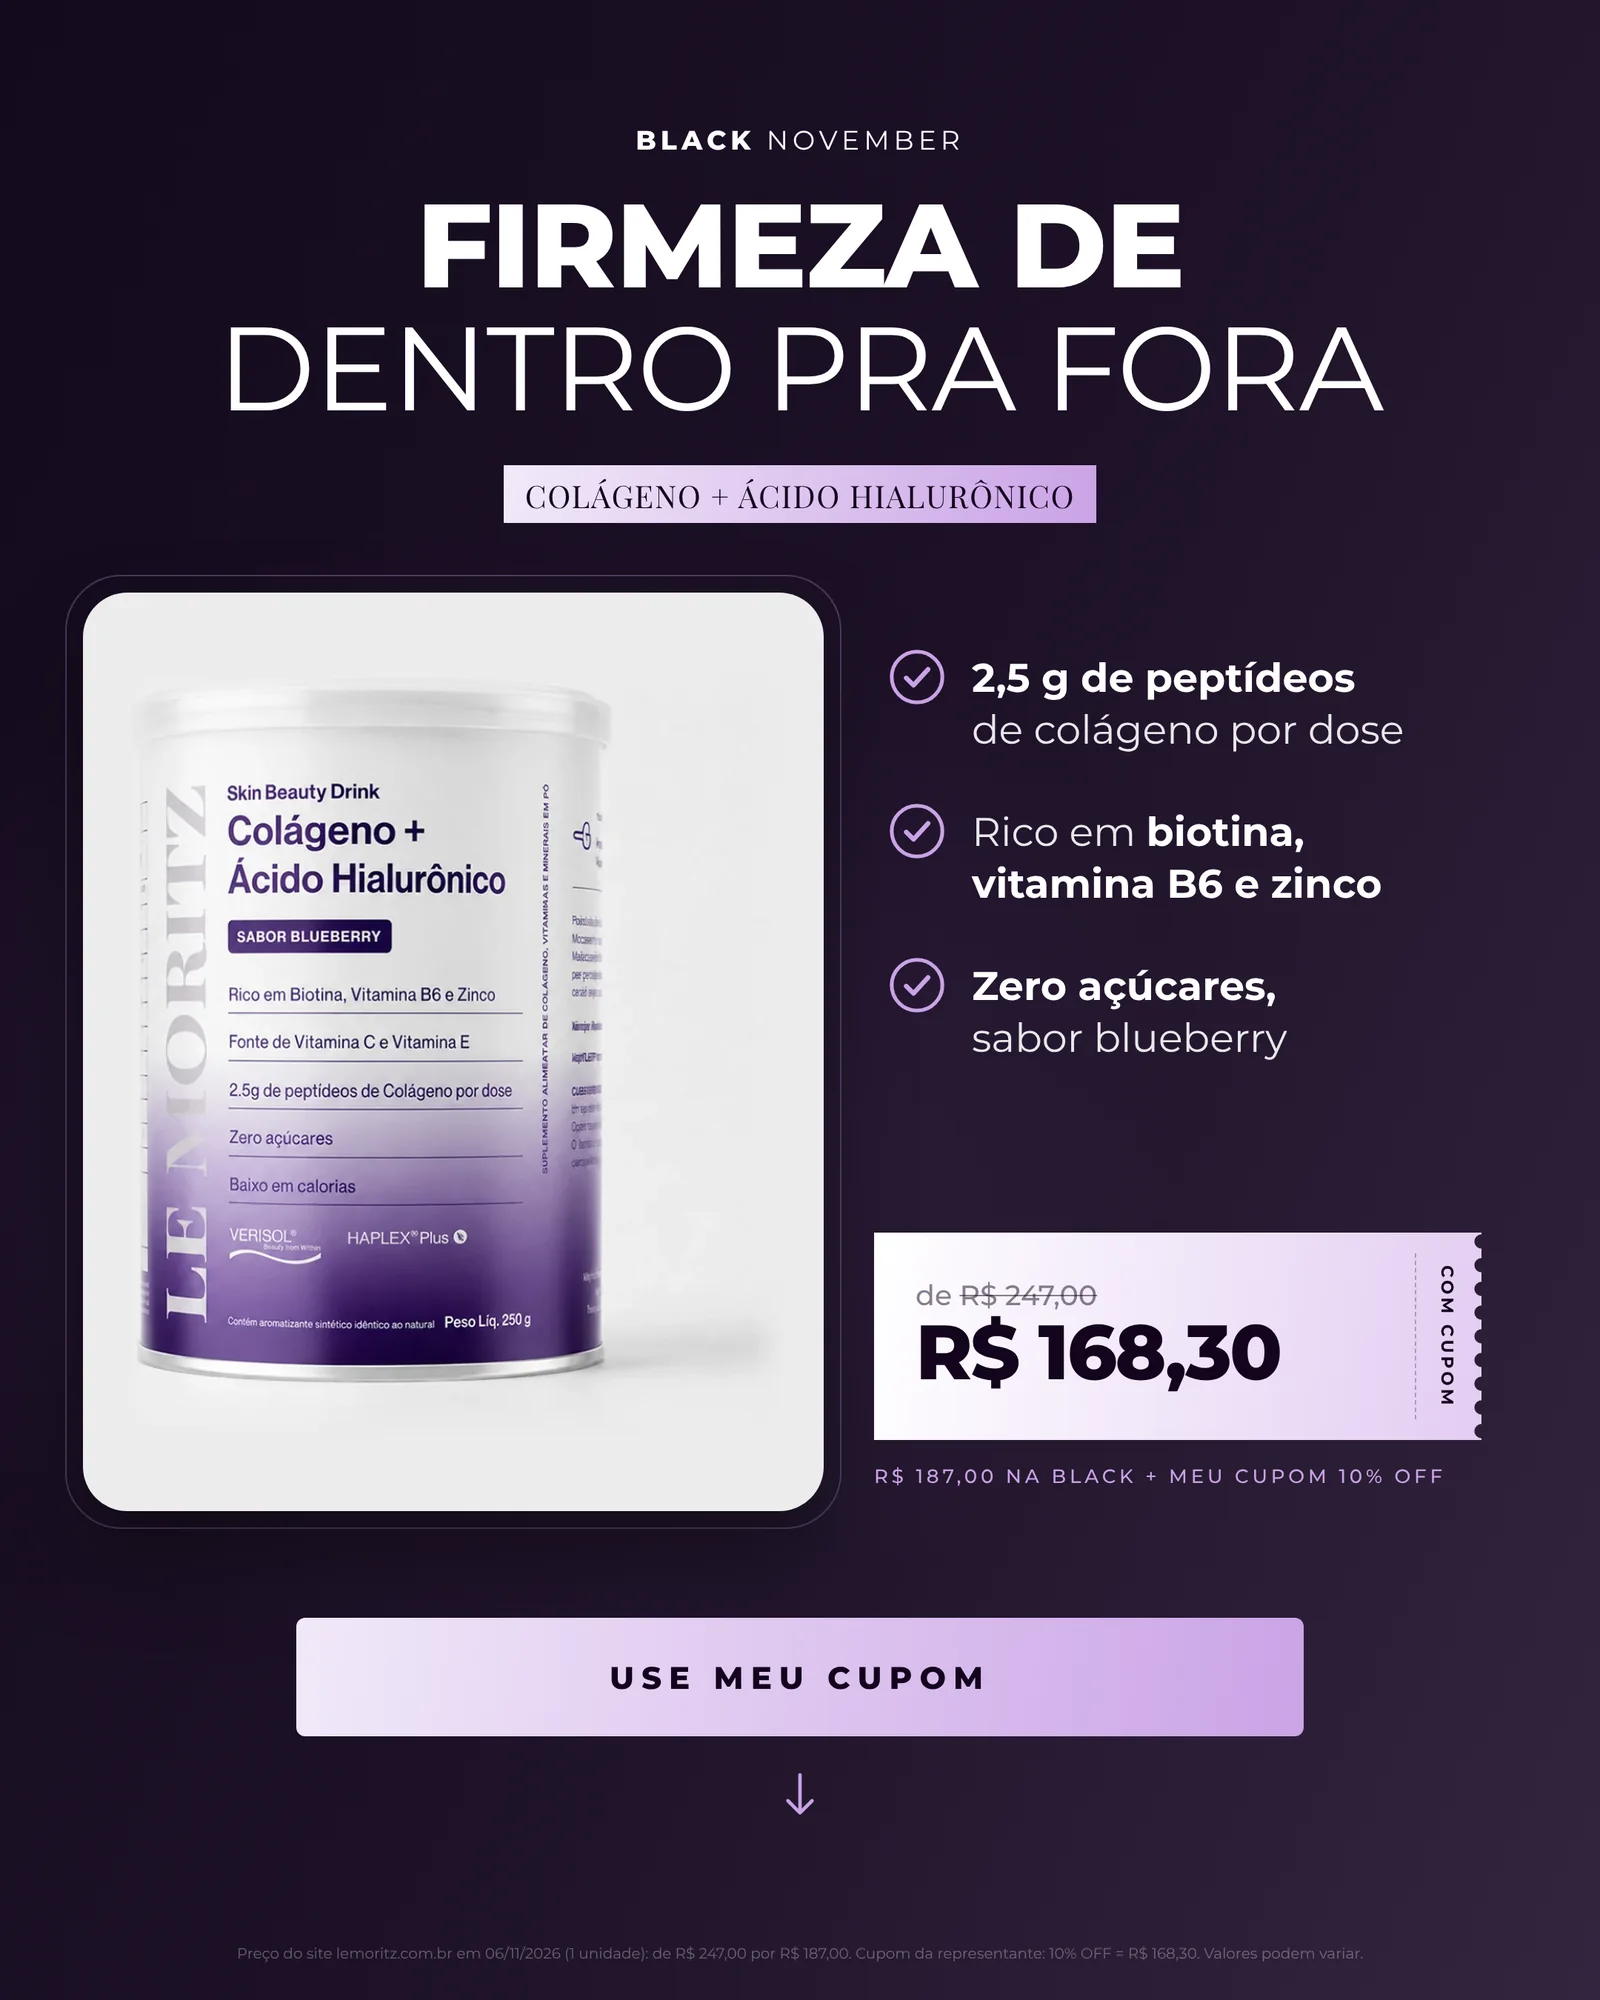
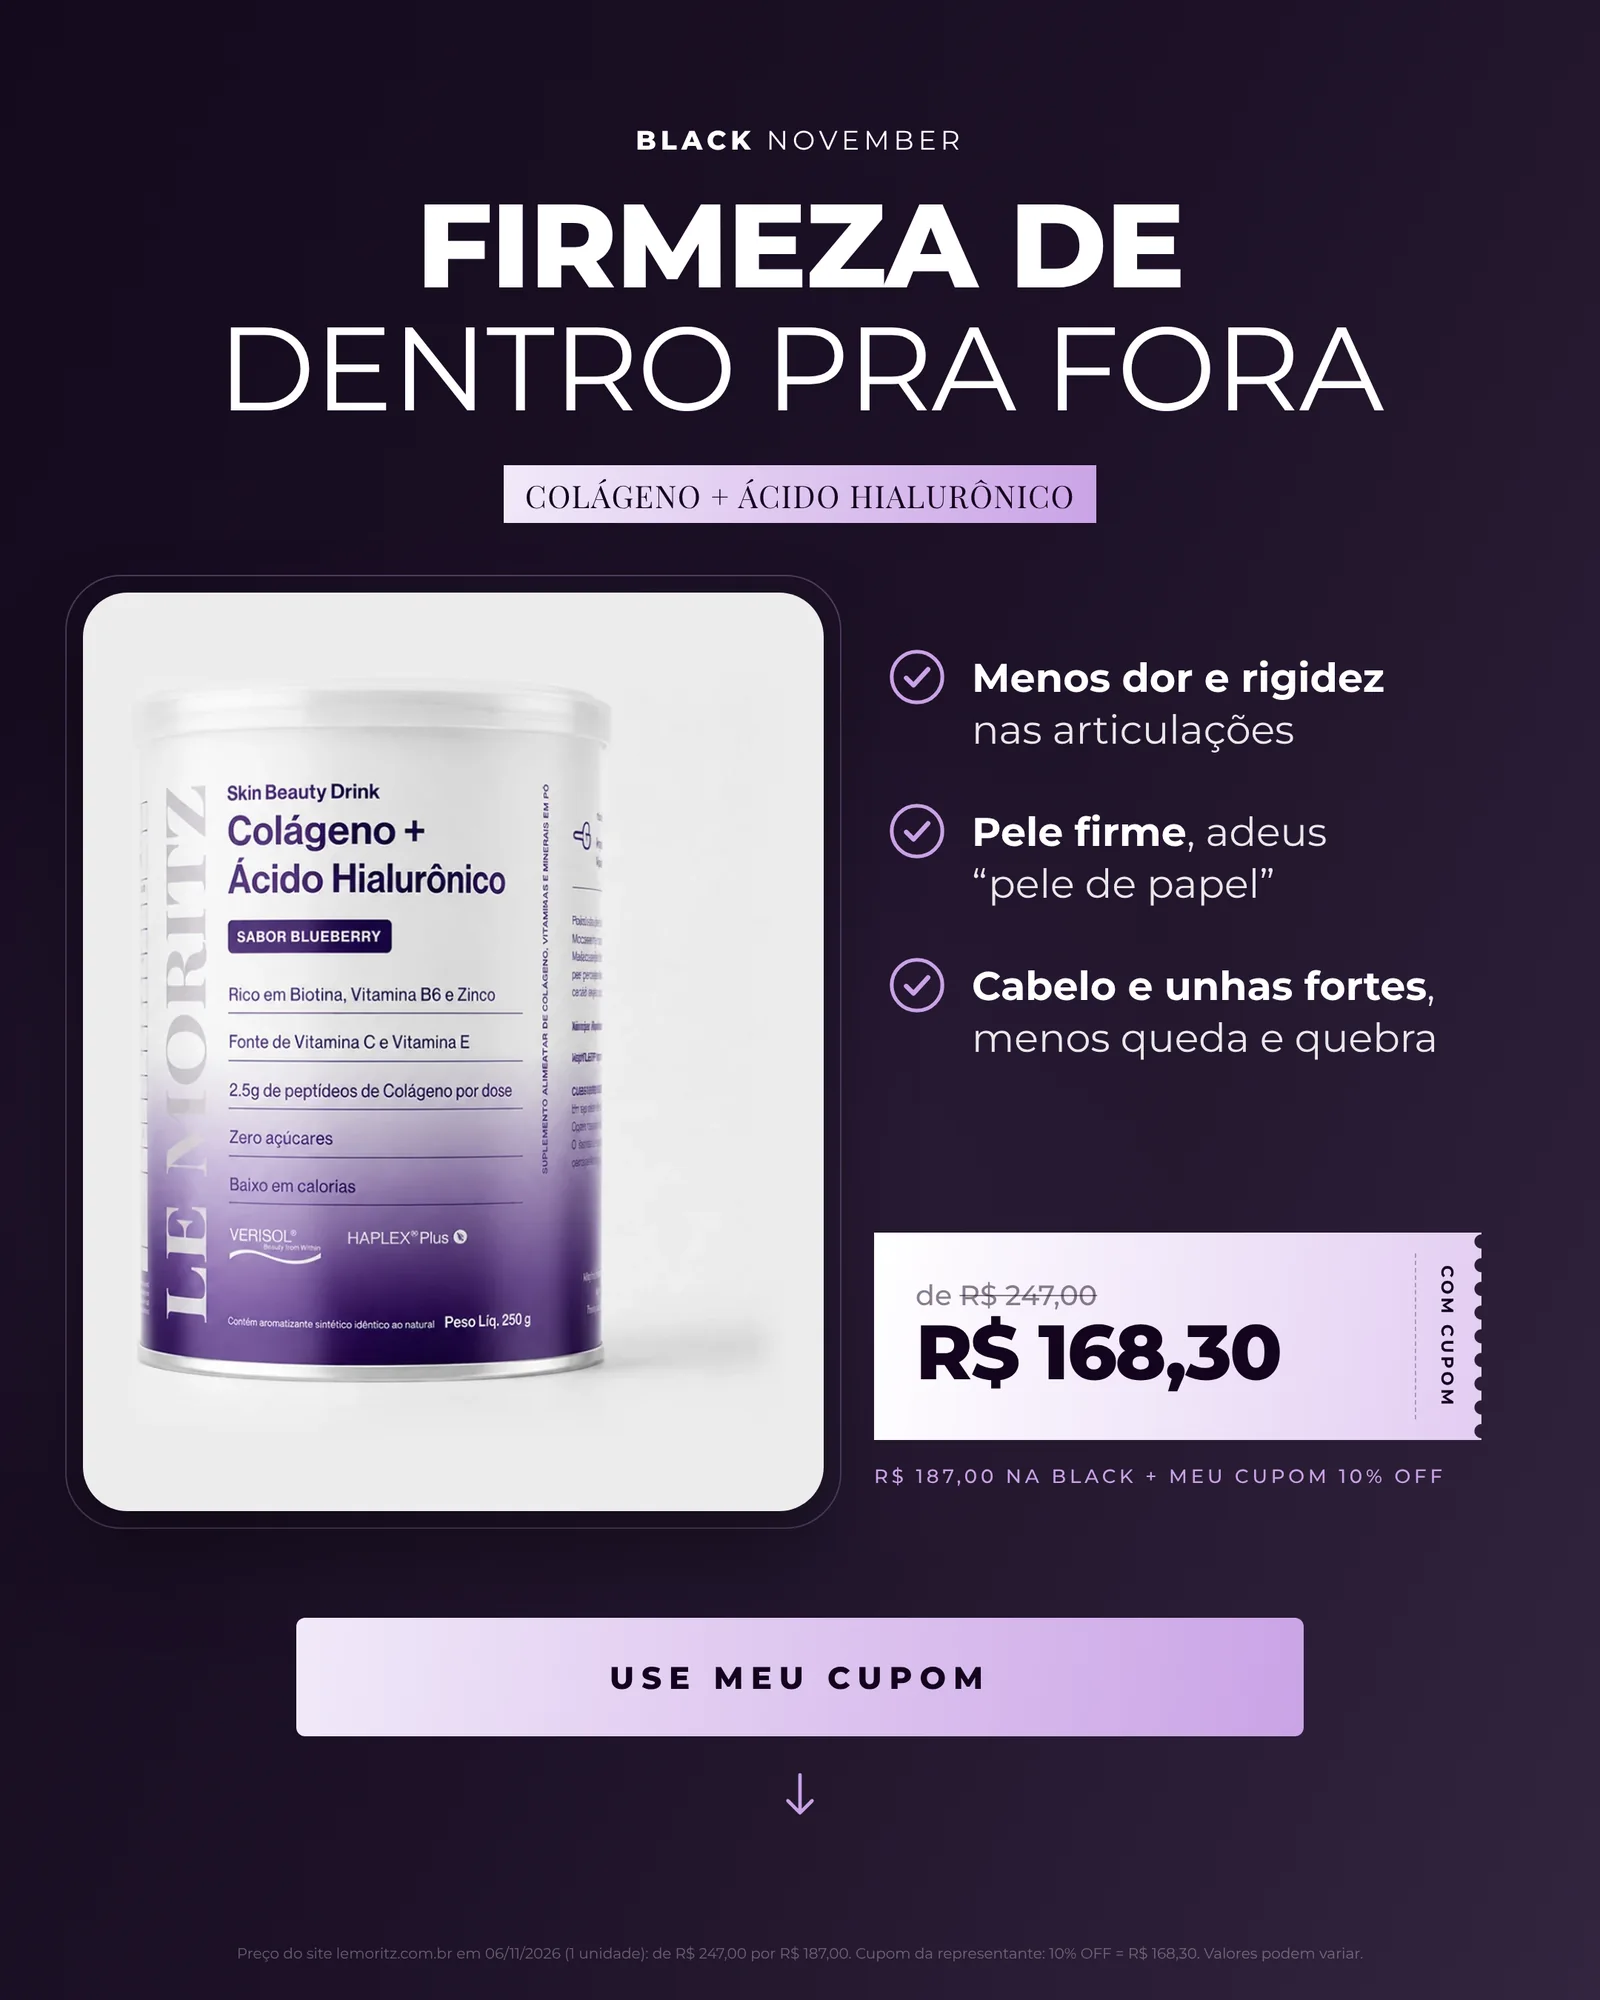
Colágeno: benefícios mais fortes na imagem e nos textos
- Bullets: articulações, pele firme e cabelo e unhas, como na página do produto
- Status e privado do Colágeno falam dos mesmos benefícios

Claude-Session: https://claude.ai/code/session_01TW8fczpHEyq63AUCD6efa5

Changed region(s): [[0.5938, 0.403, 0.9062, 0.527], [0.5938, 0.31, 0.875, 0.372]]

diff --git a/index.html b/index.html
@@ -1223,13 +1223,13 @@ details .corpo{padding:0 0 16px}
       </article>
       <article class="peca vertical" data-cat="produtos">
         <div class="th" onclick="abrirLupa(this)">
-          <img src="imagens/black_colageno.webp" alt="Col&#225;geno + &#193;cido Hialur&#244;nico &#8211; Firmeza de dentro pra fora." loading="lazy">
+          <img src="imagens/black_colageno.webp?v=2" alt="Col&#225;geno + &#193;cido Hialur&#244;nico &#8211; Firmeza de dentro pra fora." loading="lazy">
           <span class="tipo">Imagem</span>
         </div>
         <div class="c">
           <b>Col&#225;geno + &#193;cido Hialur&#244;nico</b>
           <span class="d">Firmeza de dentro pra fora. De R$247 por R$168,30 com cupom.</span>
-          <a class="cta" href="imagens/black_colageno.webp" download>Baixar a imagem</a>
+          <a class="cta" href="imagens/black_colageno.webp?v=2" download>Baixar a imagem</a>
           <button class="cta vazio tx-bt" onclick="abrirTextos('colageno')">Textos prontos</button>
         </div>
       </article>
@@ -1993,8 +1993,8 @@ var TX_PECA = {
 "colageno": {
 "t": "Colágeno + Ácido Hialurônico",
 "m": [
-"Colágeno pra tomar todo dia, sabor blueberry e sem açúcar. Tá na Black e meu cupom [CUPOM] dá mais 10%. Me chama!",
-"Oi, amiga! Você toma colágeno?\n\nEsse da Le Moritz vem com ácido hialurônico, é sabor blueberry e não tem açúcar.\n\nTá na Black e meu cupom [CUPOM] dá mais 10%. Se quiser, te mando o link.",
+"Um colágeno que cuida de tudo de uma vez: menos dor nas articulações, pele mais firme, menos queda de cabelo e unhas mais fortes. Tá na Black e meu cupom [CUPOM] dá mais 10%. Me chama!",
+"Oi, amiga! Você toma colágeno?\n\nEsse da Le Moritz foi feito pra fase da menopausa: ajuda nas articulações travadas, na pele flácida, na queda de cabelo e nas unhas que quebram. É um scoop na água de manhã, sabor blueberry e sem açúcar.\n\nTá na Black e meu cupom [CUPOM] dá mais 10%. Se quiser, te mando o link.",
 "Oi, [NOME]! O pote de colágeno já deve tá no fim, né? Pra não parar no meio, aproveita a Black, e meu cupom [CUPOM] ainda tira mais 10%."
 ]
 },
